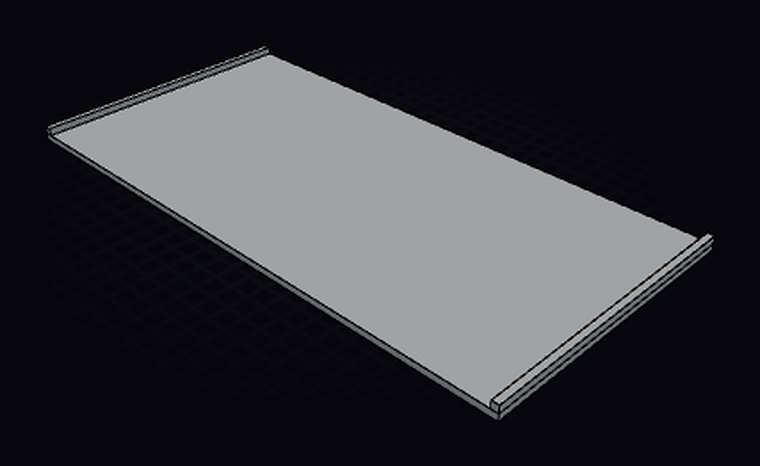
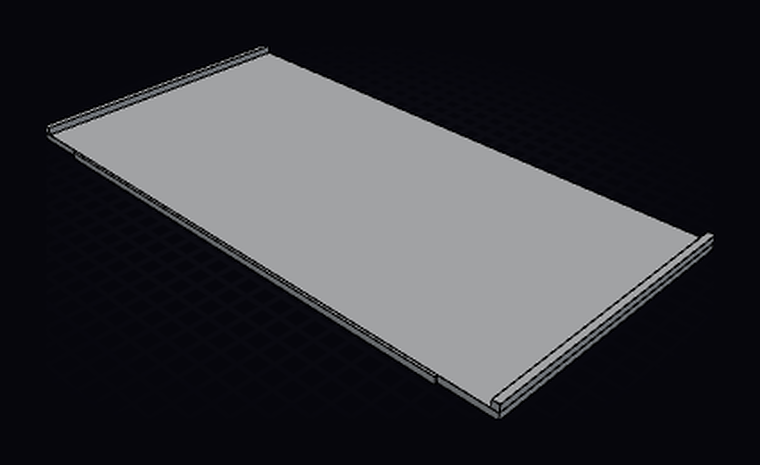
Add a step to the side and corner panels to follow the cutout rims

diff --git a/src/corner-panel.ts b/src/corner-panel.ts
@@ -15,23 +15,29 @@
  * into the recess at the bottom of the post's groove and stops the leg pulling
  * out along its length.
  *
+ * Also like the side panel, the bottom edge follows the rim: level with the
+ * groove floors along each leg's landing beside its post, and dropped to the
+ * lower rim everywhere between, round the bend.
+ *
  * The corner is not square — the handle-end post sits nearer the corner than
  * the long-side post does — so the left and right corners are mirror images.
  * This module builds the left one; corner-panel-right mirrors it.
  *
- * Modelled as fitted and as printed, standing on its bottom edge. Z is up from
- * the rim (the groove floors) at z = 0. The origin is where the lines through
+ * Modelled as fitted, standing on its bottom edge. Print it upside down, on its
+ * top edge, which is flat: the bottom edge steps, and the undropped leg ends
+ * would start in mid-air. Z is up from the groove floors at z = 0; the dropped
+ * bottom edge reaches below. The origin is where the lines through
  * the two posts' cutout centres cross; the posts' grooves sit a little outside
  * those lines, so the legs' centre planes do too. Leg A runs along +X to the
  * long-side post and leans toward +Y; leg B runs along -Y to the handle-end
  * post and leans toward -X. The outside of the bend faces -X/+Y. Standing at
  * the handle end facing the tub, +X points away from you and +Y to your left.
  */
-import { Sketcher, type Sketch, type ValidSolid } from 'brepjs';
+import { box, cut, Sketcher, unwrap, type Sketch, type ValidSolid } from 'brepjs';
 
 import { cart, corner, plug } from './cart.js';
 import { grooveOffset, params as post } from './side-extension.brep.js';
-import { lipLength, lipStandoff, thickness } from './side-panel.brep.js';
+import { dropDepth, lipLength, lipStandoff, thickness } from './side-panel.brep.js';
 import { single } from './solid.js';
 
 // ---------------------------------------------------------------------------
@@ -100,6 +106,26 @@ const toGrooveFloor = plug.y / 2 - post.grooveDepth; // 17.5
 const endA = corner.along - toGrooveFloor - cart.fitTolerance / 2; // 122.75
 const endB = corner.across - toGrooveFloor - cart.fitTolerance / 2; // 145.0
 
+/**
+ * How far from the corner each leg's bottom edge stays dropped: up to the
+ * landing beside its post's cutout, less half the fit tolerance, so it is 0.15
+ * clear of the landing as on the side panel. Each post's cutout runs along its
+ * leg. The side panel's drop depth is taken vertically here.
+ */
+const dropA =
+  corner.along - cart.cutoutLength / 2 - cart.landingLength - cart.fitTolerance / 2; // 94.6
+const dropB =
+  corner.across - cart.cutoutLength / 2 - cart.landingLength - cart.fitTolerance / 2; // 116.85
+
+/** How far the bottom edge has leaned in at the dropped depth, below the rim. */
+const dropIn = dropDepth * Math.tan(rad); // 0.16
+
+/** Overshoot so trims clear the faces instead of leaving zero-thickness skins. */
+const OVER = 1;
+
+/** Half-width of each trim across its leg: clear of the leg and its lip. */
+const TRIM_REACH = plug.y / 2;
+
 const dot = (a: Vec, b: Vec) => a[0] * b[0] + a[1] * b[1];
 const unit = (a: Vec): Vec => {
   const l = Math.hypot(a[0], a[1]);
@@ -143,16 +169,37 @@ if (-endCentre[1] + halfWidth > corner.across - plug.y / 2) {
   throw new Error(`endRadius ${params.endRadius} runs the bend into the handle-end post`);
 }
 
+// The step up to each landing must land on a straight run, so the trims square
+// to the legs only ever meet a leg.
+if (dropA < sideCentre[0]) throw new Error('the long-side landing reaches into the bend');
+if (dropB < -endCentre[1]) throw new Error('the handle-end landing reaches into the bend');
+
 // ---------------------------------------------------------------------------
 // Model
 // ---------------------------------------------------------------------------
 
 export function cornerPanel(): ValidSolid {
   // Bottom and top sections share their topology edge for edge, so a ruled loft
-  // joins straight to straight (planes) and arc to arc (cones).
-  const bottom = section(0, grooveOut);
+  // joins straight to straight (planes) and arc to arc (cones). It starts at the
+  // dropped bottom edge, carrying the lean on down below the rim.
+  const bottom = section(-dropDepth, grooveOut - dropIn);
   const top = section(rise, grooveOut + lean);
-  return single(bottom.loftWith(top, { ruled: true }));
+  let panel = single(bottom.loftWith(top, { ruled: true }));
+
+  // Trim each leg's end back up to the groove floor along its landing.
+  const below = dropDepth + OVER;
+  const landingA = box(endA + OVER - dropA, 2 * TRIM_REACH, below, {
+    centered: true,
+    at: [(dropA + endA + OVER) / 2, 0, -below / 2],
+  });
+  const landingB = box(2 * TRIM_REACH, endB + OVER - dropB, below, {
+    centered: true,
+    at: [0, -(dropB + endB + OVER) / 2, -below / 2],
+  });
+  for (const trim of [landingA, landingB]) {
+    panel = single(unwrap(cut(panel, trim)));
+  }
+  return panel;
 }
 
 /**
@@ -206,20 +253,27 @@ function section(z: number, out: number): Sketch {
 // Declared intent
 // ---------------------------------------------------------------------------
 
-// Each horizontal section is a strip of constant width along the centreline:
-// three straight runs that keep their length, plus two rounds whose radii grow
-// linearly with height. Its volume is the width times the centreline length at
-// mid-height. The two lips add a constant rectangle each.
+// Each horizontal section of the loft is a strip of constant width along the
+// centreline: three straight runs that keep their length, plus two rounds whose
+// radii grow linearly with height. Its volume is the width times the centreline
+// length at mid-height. The two lips add a constant rectangle each. The trims
+// then take the dropped depth off each leg's end: a straight strip from its
+// landing to its end, plus its lip.
 const sideTurn = Math.acos(dot(nA, nF));
 const endTurn = Math.acos(dot(nF, nB));
+const midOut = grooveOut + (lean - dropIn) / 2;
 const centreline =
   runA +
   runB +
   runFlat +
-  sideTurn * (params.sideRadius + grooveOut + lean / 2) +
-  endTurn * (params.endRadius + grooveOut + lean / 2);
+  sideTurn * (params.sideRadius + midOut) +
+  endTurn * (params.endRadius + midOut);
 
-export const volume = (2 * halfWidth * centreline + 2 * lipLength * lipWidth) * rise;
+const lofted = (2 * halfWidth * centreline + 2 * lipLength * lipWidth) * (rise + dropDepth);
+const trimmed =
+  (2 * halfWidth * (endA - dropA + endB - dropB) + 2 * lipLength * lipWidth) * dropDepth;
+
+export const volume = lofted - trimmed;
 
 /** Bounds of the left part; the right part is the same mirrored in Y. */
 export const extent = {
@@ -227,6 +281,6 @@ export const extent = {
   xMax: endA,
   yMin: -endB,
   yMax: grooveOut + lean + halfWidth,
-  zMin: 0,
+  zMin: -dropDepth,
   zMax: rise,
 };

diff --git a/src/side-panel.brep.ts b/src/side-panel.brep.ts
@@ -10,9 +10,14 @@
  * post's groove, so the panel can't pull out of the groove along its length.
  * The lips are on one face only, so the other face is flat to print on.
  *
+ * The bottom edge follows the rim. Next to each post the rim is level with the
+ * groove floors; further from the posts it sits lower, so the middle of the
+ * bottom edge drops to meet it.
+ *
  * Modelled flat, as printed: X along the panel's length (post to post), Y up
- * its height once fitted, Z through its thickness, lips up. Centred on the
- * origin in X/Y, its outside face on the print bed at z = 0.
+ * its height once fitted, Z through its thickness, lips up. The plate is
+ * centred on the origin in X/Y, its outside face on the print bed at z = 0.
+ * The dropped middle hangs below it.
  */
 import { box, fuse, unwrap, type ValidSolid } from 'brepjs';
 
@@ -53,6 +58,17 @@ export const length =
 export const lipStandoff = lipSize; // 4
 export const lipLength = lipSize - cart.fitTolerance; // 3.7
 
+/**
+ * The middle of the bottom edge, dropped to the lower rim between the landings
+ * beside the cutouts: 279.4 - 2 * 20 = 239.4 of rim, less the fit tolerance,
+ * so it is 0.15 clear of each landing. It drops the rim's full step, to sit on
+ * the lower rim as the ends sit on the groove floors. Each end stays undropped
+ * for 28.15 from the panel's end: 8 over the cutout, in the groove, and 20.15
+ * over the landing.
+ */
+export const dropLength = cart.cutoutGap - 2 * cart.landingLength - cart.fitTolerance; // 239.1
+export const dropDepth = cart.rimDrop; // 1.5
+
 // ---------------------------------------------------------------------------
 // Model
 // ---------------------------------------------------------------------------
@@ -67,7 +83,16 @@ export default function sidePanel(): ValidSolid {
       centered: true,
       at: [side * (length - lipLength) / 2, 0, thickness + lipStandoff / 2],
     });
-  return single(unwrap(fuse(single(unwrap(fuse(plate, lip(1)))), lip(-1))));
+  const drop = box(dropLength, dropDepth, thickness, {
+    centered: true,
+    at: [0, -(params.height + dropDepth) / 2, thickness / 2],
+  });
+
+  let panel = plate;
+  for (const part of [lip(1), lip(-1), drop]) {
+    panel = single(unwrap(fuse(panel, part)));
+  }
+  return panel;
 }
 
 // ---------------------------------------------------------------------------
@@ -75,11 +100,13 @@ export default function sidePanel(): ValidSolid {
 // ---------------------------------------------------------------------------
 
 export const expected = {
-  volume: (length * thickness + 2 * lipLength * lipStandoff) * params.height,
+  volume:
+    (length * thickness + 2 * lipLength * lipStandoff) * params.height +
+    dropLength * dropDepth * thickness,
   bounds: {
     xMin: -length / 2,
     xMax: length / 2,
-    yMin: -params.height / 2,
+    yMin: -params.height / 2 - dropDepth,
     yMax: params.height / 2,
     zMin: 0,
     zMax: thickness + lipStandoff,

diff --git a/src/cart.ts b/src/cart.ts
@@ -35,6 +35,14 @@ export const cart = {
    * here, so its narrow side faces the long-side cutout's end.
    */
   cornerGap: 105,
+
+  /**
+   * The rim's top edge isn't flat. For `landingLength` past each end of every
+   * cutout it is level with the cutout's mouth; between those landings, along
+   * the rest of the rim, it sits `rimDrop` lower. Approximate.
+   */
+  landingLength: 20,
+  rimDrop: 1.5,
 } as const;
 
 /** Centre to centre between neighbouring cutouts along a side: 330.7. */

diff --git a/docs/side-extension-kit.md b/docs/side-extension-kit.md
@@ -13,9 +13,9 @@ The render shows the whole kit in place, in orange. The view looks in over the o
 | Part | Quantity | Overall size (mm) | Source |
 | --- | --- | --- | --- |
 | [Post](#posts) | 8, one per cutout | 34.88 × 51.0 × 213.7 | [src/side-extension.brep.ts](../src/side-extension.brep.ts) |
-| [Side panel](#side-panels) | 5: two per long side, one across the handle end | 295.4 × 150 × 7.7 | [src/side-panel.brep.ts](../src/side-panel.brep.ts) |
-| [Corner panel](#corner-panels), left | 1 | 142.3 × 164.6 × 149.2 | [src/corner-panel-left.brep.ts](../src/corner-panel-left.brep.ts) |
-| [Corner panel](#corner-panels), right | 1 | 142.3 × 164.6 × 149.2 | [src/corner-panel-right.brep.ts](../src/corner-panel-right.brep.ts) |
+| [Side panel](#side-panels) | 5: two per long side, one across the handle end | 295.4 × 151.5 × 7.7 | [src/side-panel.brep.ts](../src/side-panel.brep.ts) |
+| [Corner panel](#corner-panels), left | 1 | 142.3 × 164.6 × 150.7 | [src/corner-panel-left.brep.ts](../src/corner-panel-left.brep.ts) |
+| [Corner panel](#corner-panels), right | 1 | 142.3 × 164.6 × 150.7 | [src/corner-panel-right.brep.ts](../src/corner-panel-right.brep.ts) |
 
 The kit uses all eight cutouts. The machete sleeve, EGO battery holder and tie-down block can [bolt to its posts](#stacking-accessories) instead.
 
@@ -25,7 +25,7 @@ The kit uses all eight cutouts. The machete sleeve, EGO battery holder and tie-d
 - **Posts:** print standing, as they sit in the cart, on the bottom of the insert. The 6° lean is the only overhang, apart from the bolt holes, which are teardrops pointing up the post and print without support.
 - **Side panels:** print flat on the plain outside face, lips up.
 - **Material:** print the panel across the handle end, the one closest to the handle, in PETG or another impact-resistant plastic. The other side panels should be fine in PLA.
-- **Corner panels:** print as modelled, standing on the bottom edge. The 6° lean is the only overhang. Use a brim, since it's a tall thin wall.
+- **Corner panels:** print upside down, standing on the top edge, which is flat. The bottom edge steps down 1.5 mm between the leg ends, so stood on it the leg ends would start in mid-air. The 6° lean is the only overhang. Use a brim, since it's a tall thin wall.
 
 ## Fitting
 
@@ -97,11 +97,12 @@ Flat plates that slide down into the grooves of two neighbouring posts on the sa
 
 | | |
 |---|---|
-| Size | 295.4 (length) × 150 (height) × 3.7 (thickness) mm, 7.7 mm at the lips |
+| Size | 295.4 (length) × 150 (height) × 3.7 (thickness) mm, 7.7 mm at the lips and 151.5 mm across the dropped middle |
 | Thickness | 4 mm groove less the 0.3 mm fit tolerance |
 | Length | 295.7 mm groove floor to groove floor (330.7 pitch − 2 × 17.5), less 0.3 mm, so 0.15 mm clear at each end |
 | Height | Matches the posts, 150 mm above the rim |
 | Lips | One at each end on the inside face, full height: 3.7 mm along the panel and standing 4 mm off it. Each drops into its post's lip recess with 0.15 mm clearance all round, so the panel can't pull out of the groove along its length |
+| Bottom edge | Follows the [rim's profile](cart.md), which is level with the groove floors for about 20 mm past each cutout and 1.5 mm lower beyond. The middle 239.1 mm drops the full 1.5 mm to sit on the lower rim, 0.15 mm clear of each step. Each end stays undropped for 28.15 mm: 8 mm over the cutout and 20.15 mm beyond it |
 
 ## Corner panels
 
@@ -119,7 +120,8 @@ Closes each handle-end corner, from the long-side post nearest the handle to the
 | Section | 3.7 mm thick, 150 mm up the slope |
 | Ends | Square to their legs and the same length top to bottom; 0.15 mm clear of each groove floor |
 | Lips | The side panel's 3.7 × 4 mm lip on the inside face at each leg end |
-| Overall | 142.3 × 164.6 × 149.2 mm, printed standing on its bottom edge |
+| Bottom edge | Follows the [rim's profile](cart.md) like the side panel's: level with the groove floors over each leg's last 28.15 mm, 8 mm over the cutout and 20.15 mm beyond it, and dropped 1.5 mm everywhere between, round the bend. So the long-side leg is dropped for 94.6 mm from the corner and the handle-end leg for 116.85 mm |
+| Overall | 142.3 × 164.6 × 150.7 mm, printed upside down on its top edge |
 
 The corner's path is the inside edge of the rim moved 17 mm outward, onto the line through the cutouts. The panel stands 2 mm further out again, in line with the posts' grooves, so its bottom edge sits on the rim all the way round the corner.
 

diff --git a/README.md b/README.md
@@ -84,8 +84,8 @@ Full measurements: [Cart cutout dimensions](docs/cart.md).
 | Part | Quantity | Overall size (mm) | Notes |
 | --- | --- | --- | --- |
 | [Side extension post](docs/side-extension-kit.md#posts) | 8 | 34.88 × 51.0 × 213.7 | Print standing |
-| [Side panel](docs/side-extension-kit.md#side-panels) | 5 | 295.4 × 150 × 7.7 | **Needs a bed at least 296 mm long.** Print flat, lips up. Print the handle-end panel in PETG |
-| [Corner panel](docs/side-extension-kit.md#corner-panels) | 1 left, 1 right | 142.3 × 164.6 × 149.2 | Print standing, with a brim |
+| [Side panel](docs/side-extension-kit.md#side-panels) | 5 | 295.4 × 151.5 × 7.7 | **Needs a bed at least 296 mm long.** Print flat, lips up. Print the handle-end panel in PETG |
+| [Corner panel](docs/side-extension-kit.md#corner-panels) | 1 left, 1 right | 142.3 × 164.6 × 150.7 | Print upside down on the top edge, with a brim |
 | [Tie-down block](docs/tie-down-block.md) | 1 per cutout | 19.2 × 72 × 103.5 | Print lying on a broad face, no supports |
 | [Pole tool holder](docs/pole-holder.md) | 2 per pole | 31.6 × 51.0 × 133.3 | Print standing |
 | [Machete sleeve](docs/machete-sleeve.md) | 1 | 19.2 × 51.0 × 193.5 | Print standing, with a brim |

diff --git a/docs/machete-sleeve.md b/docs/machete-sleeve.md
@@ -6,7 +6,7 @@
 
 Carries a machete on the rim. A bar drops into a cutout and stands up above the rim. A slot runs right through the upper part along the rim, open on both narrow faces, for the machete blade to pass through.
 
-It is made specifically for the [Tramontina 15" Bolo Machete (Wood Handle, model 26625/015)](https://www.google.com/search?q=Tramontina+15%22+Bolo+Machete), but other machetes with a similar blade may fit too.
+It is made specifically for the [Tramontina 15" Bolo Machete (Wood Handle, model 26625/015)](https://www.google.com/search?q=Tramontina++Bolo+Machete), but other machetes with a similar blade may fit too.
 
 ## What to print
 

diff --git a/docs/cart.md b/docs/cart.md
@@ -22,6 +22,7 @@ The long axis of each cutout runs along the rim.
 | Gap between the handle-end cutouts | 11 in (279.4 mm) edge to edge, the same as along the sides |
 | Handle-end cutouts along the cart | 105 mm clear gap, edge to edge, to the nearest long-side cutouts: 140.4 mm centre to centre |
 | Rim corners at the handle end | A round, a flat about 64.5° from the long side, and a second round |
+| Rim profile | Level with the cutout's mouth for about 20 mm past each end of every cutout, and about 1.5 mm lower along the rest of the rim |
 
 These facts live in code in [src/cart.ts](../src/cart.ts), which every accessory imports.
 
